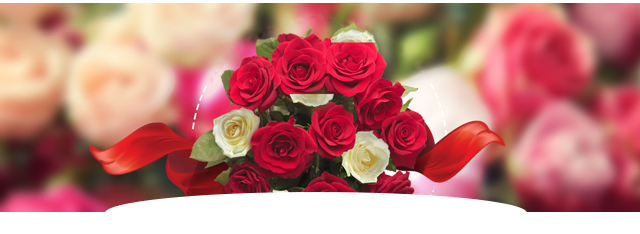
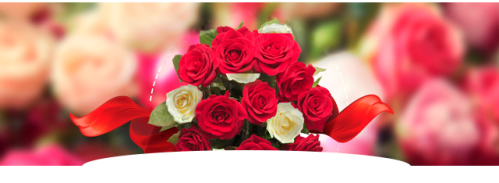
some fixes

diff --git a/index.html b/index.html
@@ -8,9 +8,10 @@
 	<title>Квітоманія</title>
 
 	<meta name="viewport" content="width=device-width, initial-scale=1, maximum-scale=1" />
-
+	
 	<link rel="stylesheet" href="css/fonts.css" />
 	<link href="https://fonts.googleapis.com/css?family=Caveat:700|Lobster" rel="stylesheet">
+	<style>@media only screen and (max-width : 768px) {.general-img{height: 320px;	background: url(../img/main-img-mini.png) no-repeat center top;}}</style>
 	
 	<link rel="stylesheet" href="libs/bootstrap/css/bootstrap.min.css">
 	<link rel="stylesheet" href="css/reset.css" />
